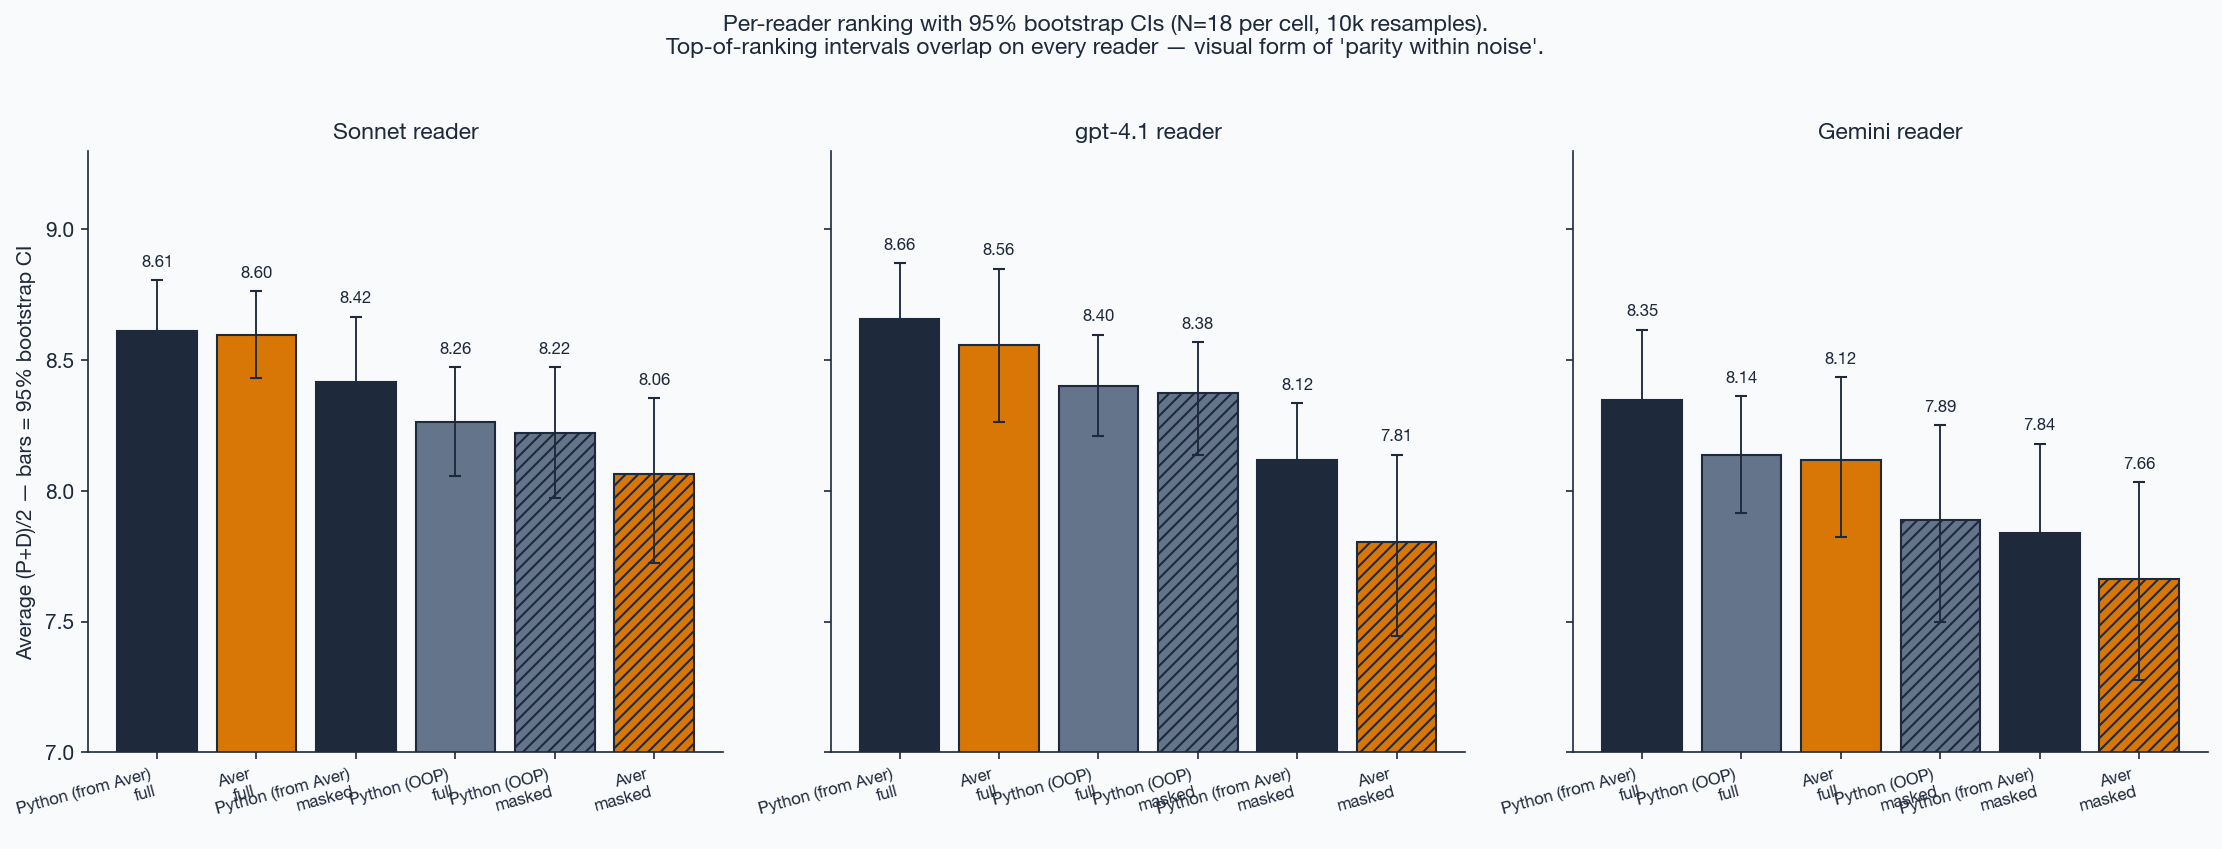
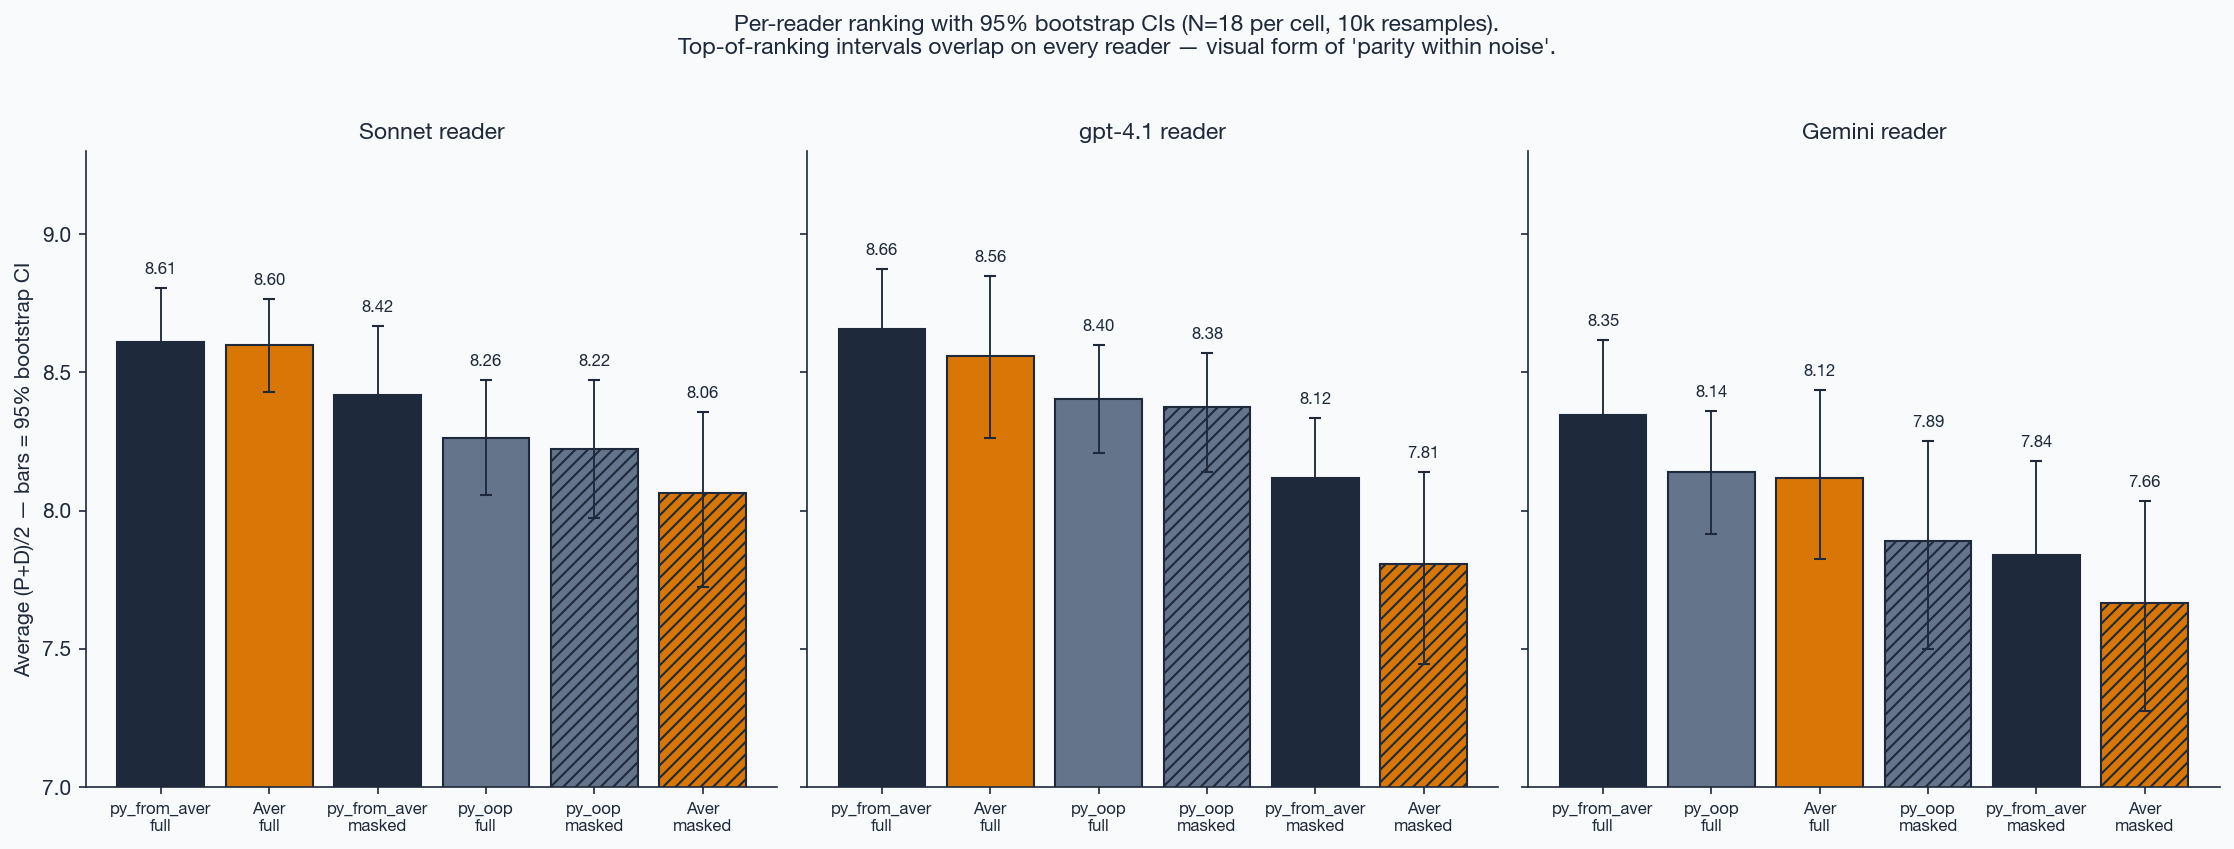
fix ranking_all_readers_ci plot: shorter labels, no rotation
Previous 6-bar × 3-panel chart had rotated labels that overlapped on every
panel. Shortened Python labels (python_from_aver → py_from_aver, python_oop
→ py_oop) and placed them horizontally with lang / view on two lines.

diff --git a/scripts/plot_judge_bias.py b/scripts/plot_judge_bias.py
@@ -566,7 +566,9 @@ def ranking_all_readers_ci(out_path: Path) -> None:
                 (r["judgment_prompt"]["median"] + r["judgment_diff"]["median"]) / 2,
             )
         items = sorted(buckets.items(), key=lambda kv: -mean(kv[1]))
-        labels = [f"{LANG_LABELS[lang]}\n{view}" for (lang, view), _ in items]
+        # Compact labels: short lang + view on separate lines
+        short = {"aver": "Aver", "python_from_aver": "py_from_aver", "python_oop": "py_oop"}
+        labels = [f"{short[lang]}\n{view}" for (lang, view), _ in items]
         values = [mean(v) for _, v in items]
         cis = [ci(v) for _, v in items]
         err_lo = [m - lo for m, (lo, _) in zip(values, cis)]
@@ -574,7 +576,8 @@ def ranking_all_readers_ci(out_path: Path) -> None:
         colors = [LANG_COLORS[lang] for (lang, _), _ in items]
         hatches = ["" if view == "full" else "////" for (_, view), _ in items]
 
-        bars = ax.bar(labels, values, color=colors, edgecolor=SLATE, linewidth=1.0,
+        x_pos = np.arange(len(items))
+        bars = ax.bar(x_pos, values, color=colors, edgecolor=SLATE, linewidth=1.0,
                       yerr=[err_lo, err_hi], ecolor=SLATE, capsize=3,
                       error_kw={"linewidth": 0.9})
         for bar, h in zip(bars, hatches):
@@ -584,8 +587,8 @@ def ranking_all_readers_ci(out_path: Path) -> None:
                     ha="center", va="bottom", fontsize=8, fontweight="bold", color=SLATE)
         ax.set_title(f"{reader} reader", fontweight="bold", fontsize=11)
         ax.set_ylim(7.0, 9.3)
-        ax.tick_params(axis="x", labelrotation=15)
-        plt.setp(ax.get_xticklabels(), ha="right", fontsize=8)
+        ax.set_xticks(x_pos)
+        ax.set_xticklabels(labels, rotation=0, ha="center", fontsize=8)
         for spine in ["top", "right"]:
             ax.spines[spine].set_visible(False)
 
